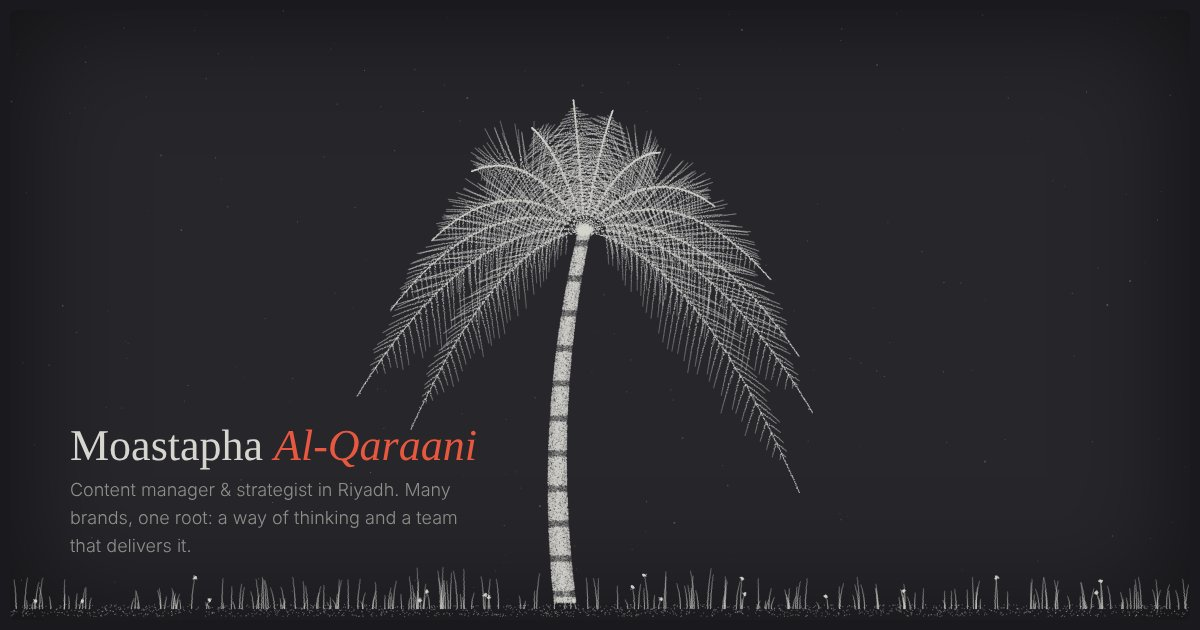
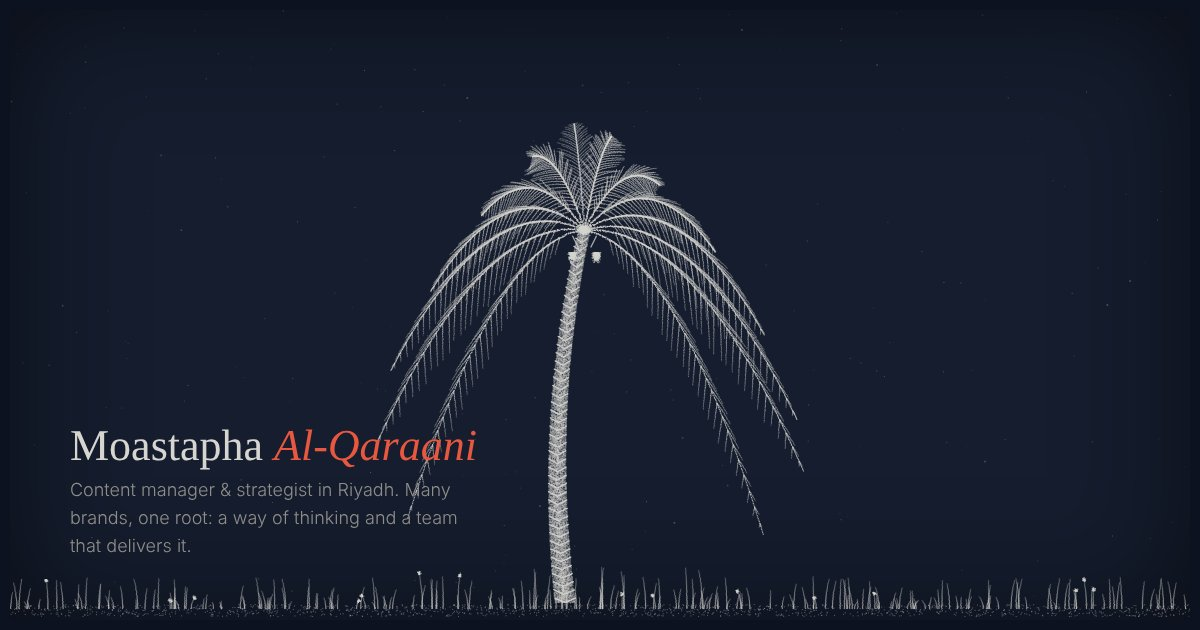
Navy night sky and a realistic date palm

Changed region(s): [[0.0, 0.1508, 1.0, 0.9952], [0.6167, 0.754, 0.6475, 0.8143]]

diff --git a/index.html b/index.html
@@ -25,11 +25,11 @@
 <style>
 :root {
   /* One visual world: a grainy palm at night. Fronds are the navigation; a panel opens beside the zoomed frond. */
-  --night: #26262b;
-  --night-deep: #1a1a1e;
+  --night: #151d2e;
+  --night-deep: #0c1220;
   --ink: #d6d5d0;
   --dim: #8f8e8a;
-  --hair: #4a4a50;
+  --hair: #34405a;
   --accent: #e8573f;
   --display: "Newsreader", Georgia, "Times New Roman", serif;
   --body: "IBM Plex Sans Arabic", "Segoe UI", Tahoma, Arial, sans-serif;
@@ -47,7 +47,7 @@ canvas { position: absolute; inset: 0; width: 100%; height: 100%; display: block
 svg.lines { position: absolute; inset: 0; width: 100%; height: 100%; pointer-events: none; }
 svg.lines path { stroke: var(--ink); stroke-width: .8; fill: none; opacity: .75; }
 
-.tag { position: absolute; font-size: 14px; letter-spacing: .01em; white-space: nowrap; padding: 6px 4px; color: var(--ink); transition: color .25s, opacity .5s; }
+.tag { position: absolute; text-shadow: 0 0 6px var(--night), 0 0 12px var(--night); font-size: 14px; letter-spacing: .01em; white-space: nowrap; padding: 6px 4px; color: var(--ink); transition: color .25s, opacity .5s; }
 .tag:hover, .tag[aria-current="true"] { color: var(--accent); }
 .tag .sub { display: block; font-size: 10.5px; color: var(--dim); letter-spacing: .06em; text-transform: lowercase; }
 .tag.right { text-align: left; } .tag.left { text-align: right; }
@@ -74,7 +74,7 @@ body.open .tag:not([aria-current="true"]) { opacity: .25; }
 body.open .intro, body.open .hint, body.open .note { opacity: 0; pointer-events: none; }
 
 /* panel */
-.panel { position: fixed; top: 10px; right: 10px; bottom: 10px; width: min(600px, calc(100% - 20px)); background: rgba(22,22,26,.94); backdrop-filter: blur(6px); border-left: 1px solid var(--hair); border-radius: 0 6px 6px 0; transform: translateX(105%); transition: transform .8s cubic-bezier(.65,0,.25,1) .15s; overflow-y: auto; z-index: 5; }
+.panel { position: fixed; top: 10px; right: 10px; bottom: 10px; width: min(600px, calc(100% - 20px)); background: rgba(14,20,34,.94); backdrop-filter: blur(6px); border-left: 1px solid var(--hair); border-radius: 0 6px 6px 0; transform: translateX(105%); transition: transform .8s cubic-bezier(.65,0,.25,1) .15s; overflow-y: auto; z-index: 5; }
 body.open .panel { transform: none; }
 .panel-inner { padding: 34px 40px 60px; }
 .back { display: inline-flex; gap: 8px; align-items: center; font-size: 13px; color: var(--dim); margin-bottom: 26px; }
@@ -378,52 +378,64 @@ function draw() {
   const top = { x: cx + 26 * k, y: H * (narrow ? .42 : .36) };
   const ctrl = { x: cx - 30 * k, y: (baseY + top.y) / 2 };
 
-  // trunk (quadratic bezier), stippled with rings
+  // trunk (quadratic bezier): stippled bark with V-shaped leaf-base scars, like a date palm
   const bez = (t) => ({ x: (1 - t) ** 2 * cx + 2 * (1 - t) * t * ctrl.x + t * t * top.x, y: (1 - t) ** 2 * baseY + 2 * (1 - t) * t * ctrl.y + t * t * top.y });
   const len = baseY - top.y;
-  for (let i = 0; i < len * 3.2; i++) {
-    const t = i / (len * 3.2), p = bez(t), w = (30 - 13 * t) * k;
-    const ring = Math.sin(t * len / (7.5 * k)) ;
-    const n = Math.round(w * 1.25);
-    for (let j = 0; j < n; j++) {
+  const tw = (t) => (28 - 12 * t) * k;
+  for (let i = 0; i < len * 3; i++) {
+    const t = i / (len * 3), p = bez(t), w = tw(t);
+    for (let j = 0; j < w * 1.1; j++) {
       const off = (rnd() - .5) * w, edge = Math.abs(off) / (w / 2);
-      const a = (ring > .82 ? .18 : .62) * (1 - edge * .45) * (.6 + rnd() * .4);
-      dot(p.x + off, p.y + g() * 1.2, a);
+      dot(p.x + off, p.y + g(), .42 * (1 - edge * .5) * (.6 + rnd() * .4));
+    }
+  }
+  const band = 11 * k;
+  for (let yy = 0; yy < len; yy += band) {
+    const t = yy / len, p = bez(t), w = tw(t);
+    for (let s = 0; s < w * 2.2; s++) {
+      const u = s / (w * 2.2), side = u < .5 ? -1 : 1, v = u < .5 ? u * 2 : (u - .5) * 2;
+      dot(p.x + side * (w / 2) * (1 - v), p.y - band * .55 * (1 - v) + g() * .6, .8);
     }
   }
 
-  // fronds
+  // fronds: arching rachis, sparse forward-pointing leaflets that hang with gravity
   const fronds = [];
   const angs = [-172, -155, -140, -124, -108, -94, -80, -64, -48, -32, -16, -4, 10, -186];
-  angs.forEach((deg, i) => {
+  angs.forEach((deg) => {
     const a = deg * Math.PI / 180;
     const side = Math.abs(Math.cos(a));
-    const L = (190 + 95 * side + rnd() * 30) * k * (deg < -186 + 1 ? .8 : 1);
-    const droop = (.12 + .75 * side) * (deg > 0 || deg < -180 ? 1.2 : 1);
+    const hang = deg > 0 || deg < -180;
+    const L = (175 + 105 * side + rnd() * 25) * k * (hang ? .85 : 1);
+    const droop = .22 + .95 * side + (hang ? .35 : 0);
     const pt = (t) => ({ x: top.x + Math.cos(a) * L * t, y: top.y + Math.sin(a) * L * t + droop * L * t * t });
     fronds.push({ deg, pt });
-    // rachis
-    for (let s = 0; s < L * 2.2; s++) { const t = s / (L * 2.2), p = pt(t); const w = (3.2 * (1 - t) + .8) * k; dot(p.x + g() * w, p.y + g() * w, .7); }
-    // leaflets
-    for (let t = .1; t < .99; t += .024) {
-      const p = pt(t), q = pt(t + .01);
-      const tx = q.x - p.x, ty = q.y - p.y, tl = Math.hypot(tx, ty) || 1;
+    const back = deg < -85 && deg > -100;
+    const al = back ? .6 : 1;
+    for (let s = 0; s < L * 2; s++) { const t = s / (L * 2), q = pt(t); const w = (2.6 * (1 - t) + .6) * k; dot(q.x + g() * w * .6, q.y + g() * w * .6, .8 * al); }
+    for (let t = .14; t < .985; t += .03) {
+      const q = pt(t), q2 = pt(t + .01);
+      const tx = q2.x - q.x, ty = q2.y - q.y, tl = Math.hypot(tx, ty) || 1;
       const ux = tx / tl, uy = ty / tl;
-      const ll = L * .2 * Math.pow(Math.sin(Math.PI * Math.min(1, t * 1.08)), .65) * (.8 + rnd() * .35);
+      const ll = L * .16 * Math.pow(Math.sin(Math.PI * Math.min(.98, t)), .75) * (.85 + rnd() * .3);
       [-1, 1].forEach((sd) => {
-        const ang = sd * (.95 + rnd() * .2);
+        const ang = sd * (.55 + rnd() * .12);
         let dx = ux * Math.cos(ang) - uy * Math.sin(ang), dy = ux * Math.sin(ang) + uy * Math.cos(ang);
-        dy += .55; const dl = Math.hypot(dx, dy); dx /= dl; dy /= dl;
-        const steps = ll * 1.6;
-        for (let s = 0; s < steps; s++) {
-          const u = s / steps, w = 2.4 * (1 - u) * k;
-          dot(p.x + dx * ll * u + g() * w, p.y + dy * ll * u + dy * u * u * ll * .25 + g() * w, .55 * (1 - u * .5));
+        dy += .3 + .25 * side; const dl = Math.hypot(dx, dy); dx /= dl; dy /= dl;
+        const steps = ll * 1.5;
+        for (let s2 = 0; s2 < steps; s2++) {
+          const u = s2 / steps;
+          dot(q.x + dx * ll * u + g() * .5, q.y + dy * ll * u + u * u * ll * .18 + g() * .5, (.62 - u * .32) * al, 1);
         }
       });
     }
   });
-  // crown cluster
-  for (let i = 0; i < 900 * k; i++) dot(top.x + g() * 14 * k, top.y + g() * 10 * k, .7);
+  // crown and hanging date bunches
+  for (let i = 0; i < 500 * k; i++) dot(top.x + g() * 11 * k, top.y + g() * 8 * k, .75);
+  [-1, 1].forEach((sd) => {
+    const bx = top.x + sd * 16 * k, by = top.y + 14 * k;
+    for (let s = 0; s < 30 * k; s++) dot(bx - sd * s * .25, by - 6 * k + s * .5, .6);
+    for (let i = 0; i < 420 * k; i++) dot(bx + g() * 7 * k, by + 16 * k + Math.abs(g()) * 16 * k, .55, 1.3);
+  });
 
   // grass tufts
   for (let i = 0; i < W / 5; i++) {

diff --git a/CHANGELOG.md b/CHANGELOG.md
@@ -4,3 +4,4 @@
 - 2026-11-17 — Added Mount Everest (Labrinth) player via the official YouTube audio.
 - 2026-11-18 — Link previews: Open Graph / Twitter meta and a 1200x630 palm preview image for WhatsApp, LinkedIn and X.
 - 2026-11-18 — Arabic writing: added all 16 Kitabh essays (حوار داخلي) with links, most-read highlighted; brand lines kept below; Kitabh linked from "me".
+- 2026-11-18 — Night navy background; palm redrawn as a real date palm (arching fronds, sparse leaflets, leaf-base scars on the trunk, hanging date bunches); label legibility; refreshed preview image.
